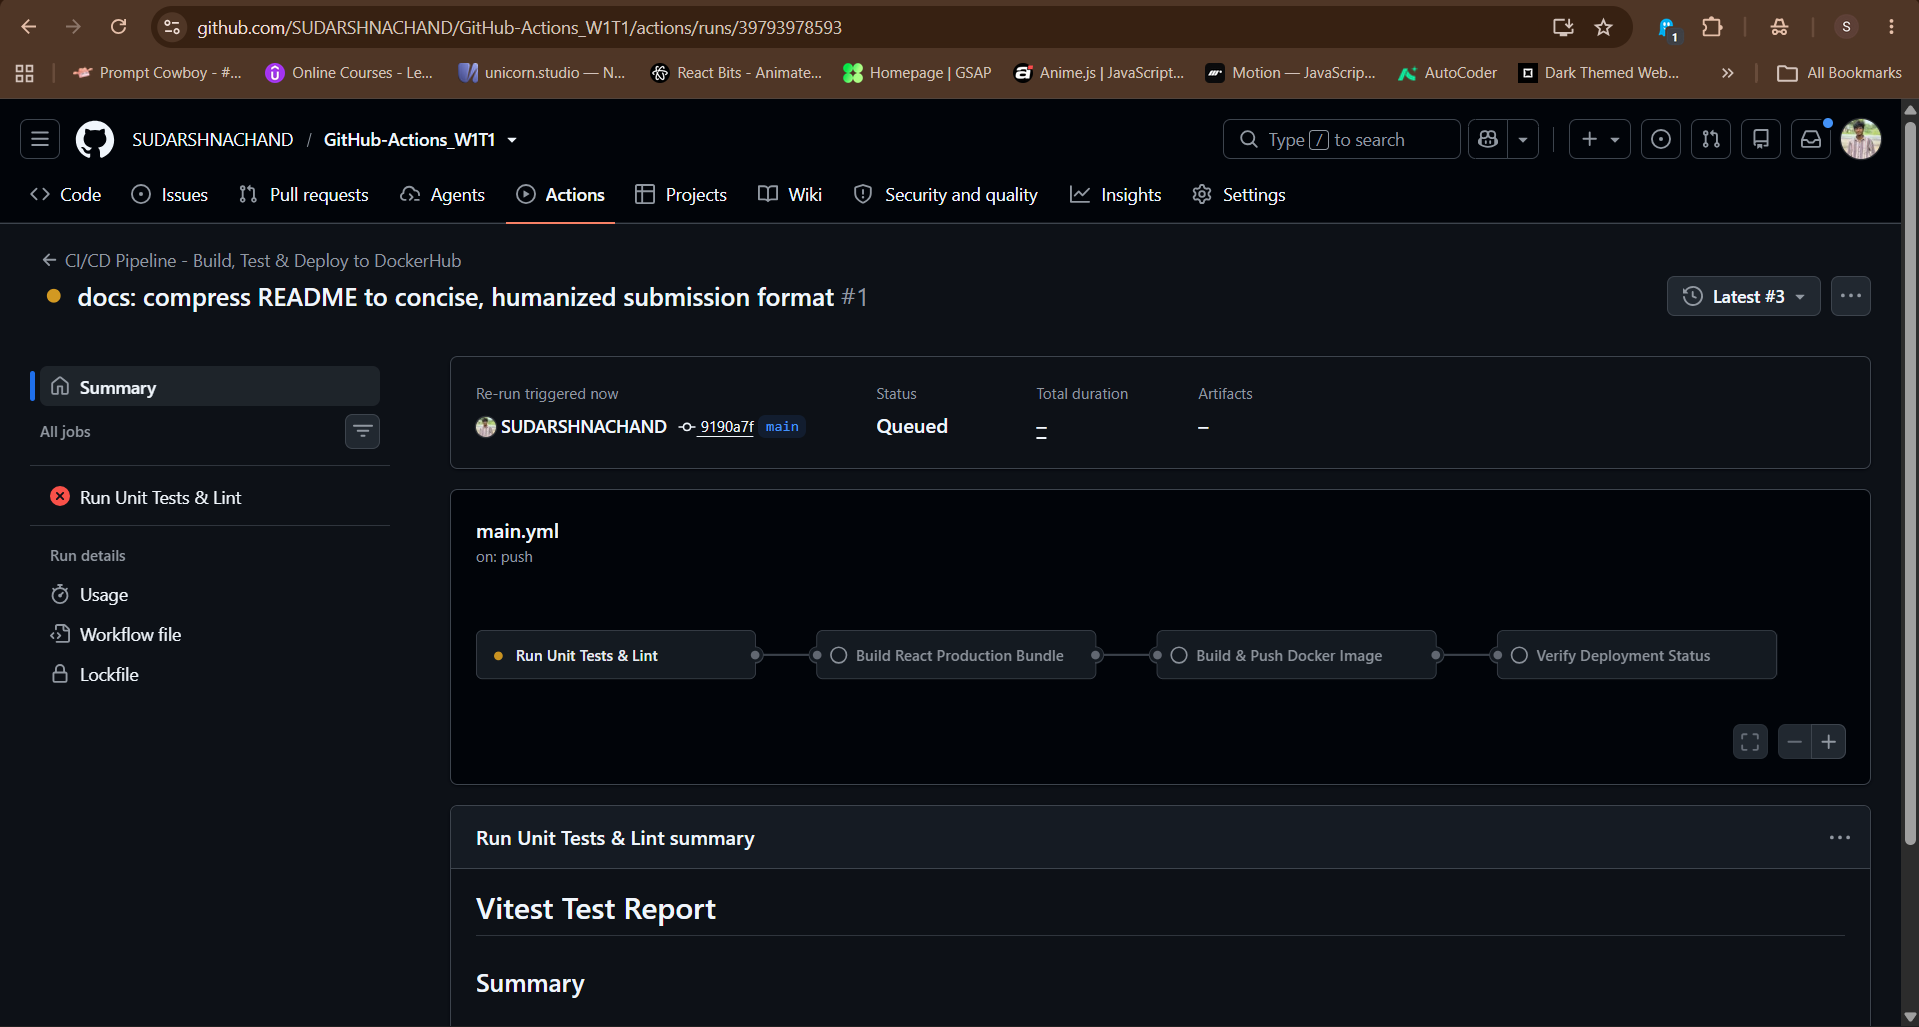
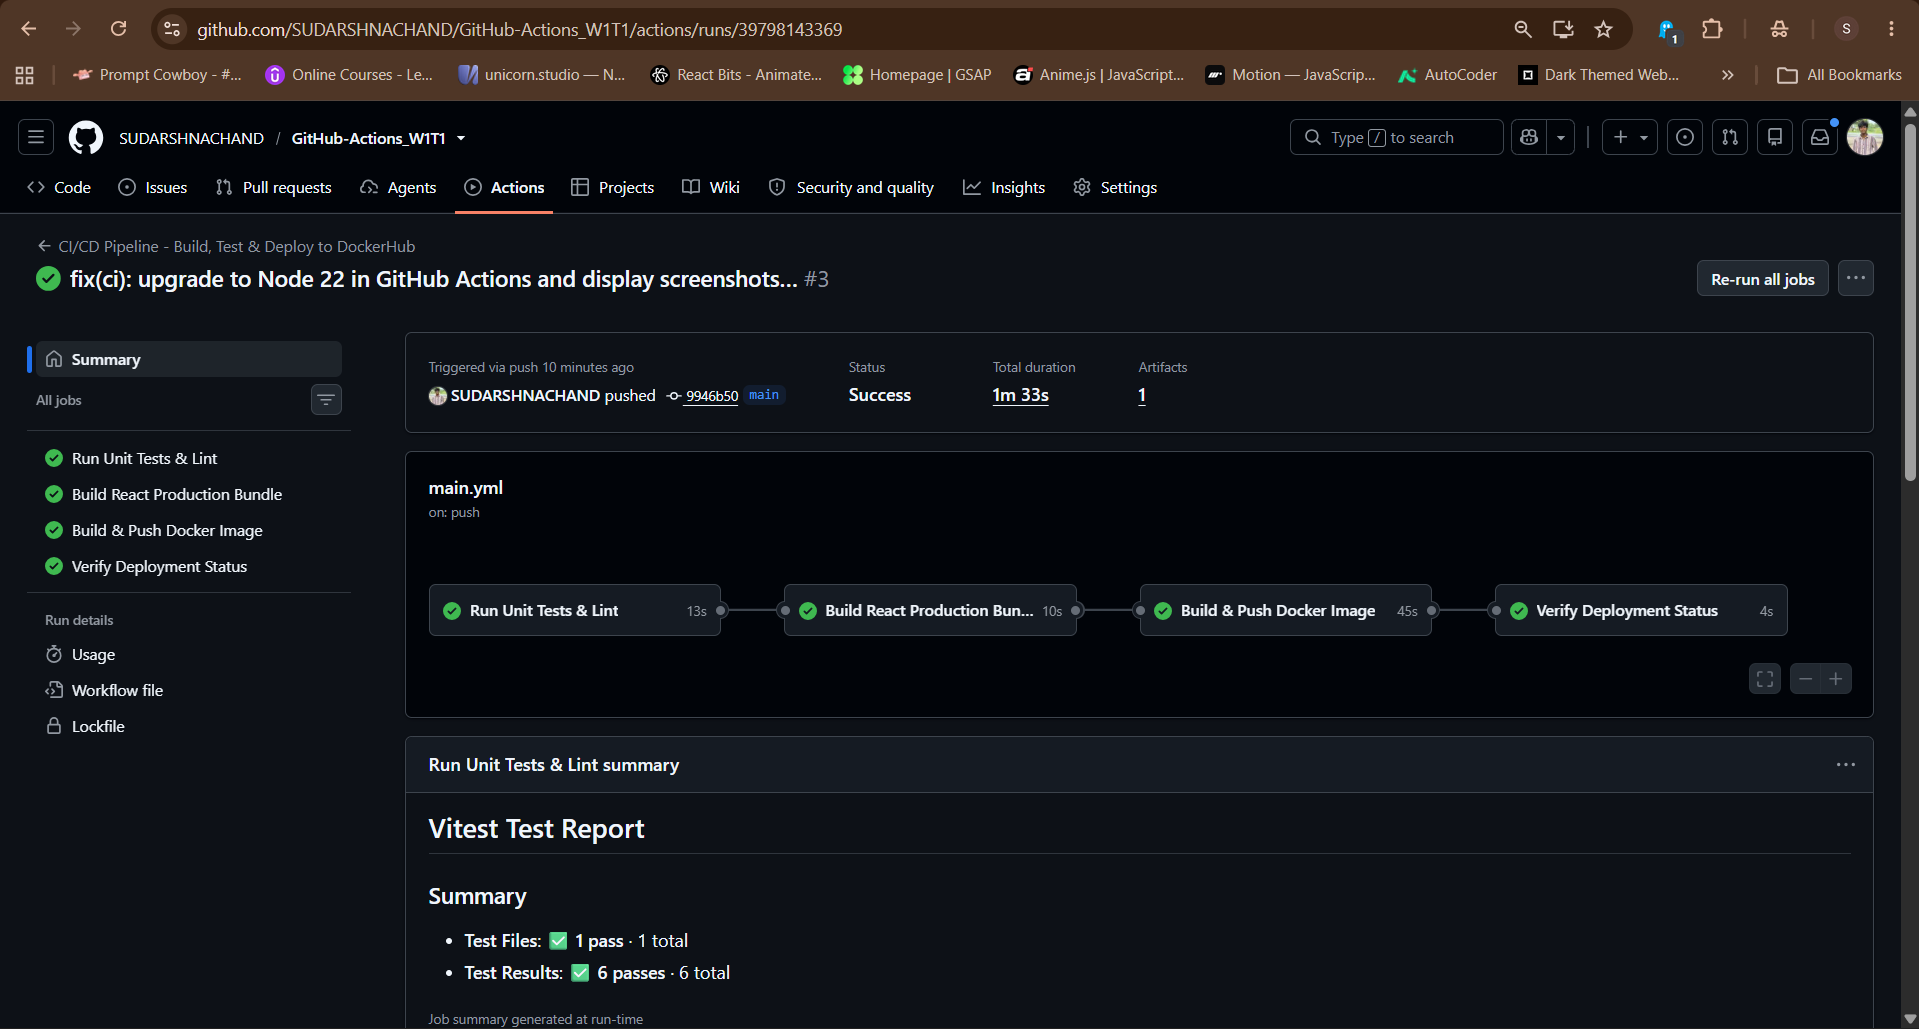
fix(test): switch to happy-dom and resolve undici worker failure in CI

diff --git a/src/App.test.jsx b/src/App.test.jsx
@@ -84,8 +84,8 @@ describe('TaskPulse App - Personal DailyTask Alert Engine', () => {
     const titleInput = screen.getByLabelText(/Task Title \*/i);
     fireEvent.change(titleInput, { target: { value: 'Complete Elevate Lab CI/CD Project' } });
 
-    const submitBtn = screen.getByText(/Create Task & Set Alert/i);
-    fireEvent.click(submitBtn);
+    const form = screen.getByRole('dialog').querySelector('form');
+    fireEvent.submit(form);
 
     expect(screen.getByText('Complete Elevate Lab CI/CD Project')).toBeInTheDocument();
   });

diff --git a/vite.config.js b/vite.config.js
@@ -6,7 +6,7 @@ export default defineConfig({
   plugins: [react()],
   test: {
     globals: true,
-    environment: 'jsdom',
+    environment: 'happy-dom',
     setupFiles: './src/setupTests.js',
   },
 })
